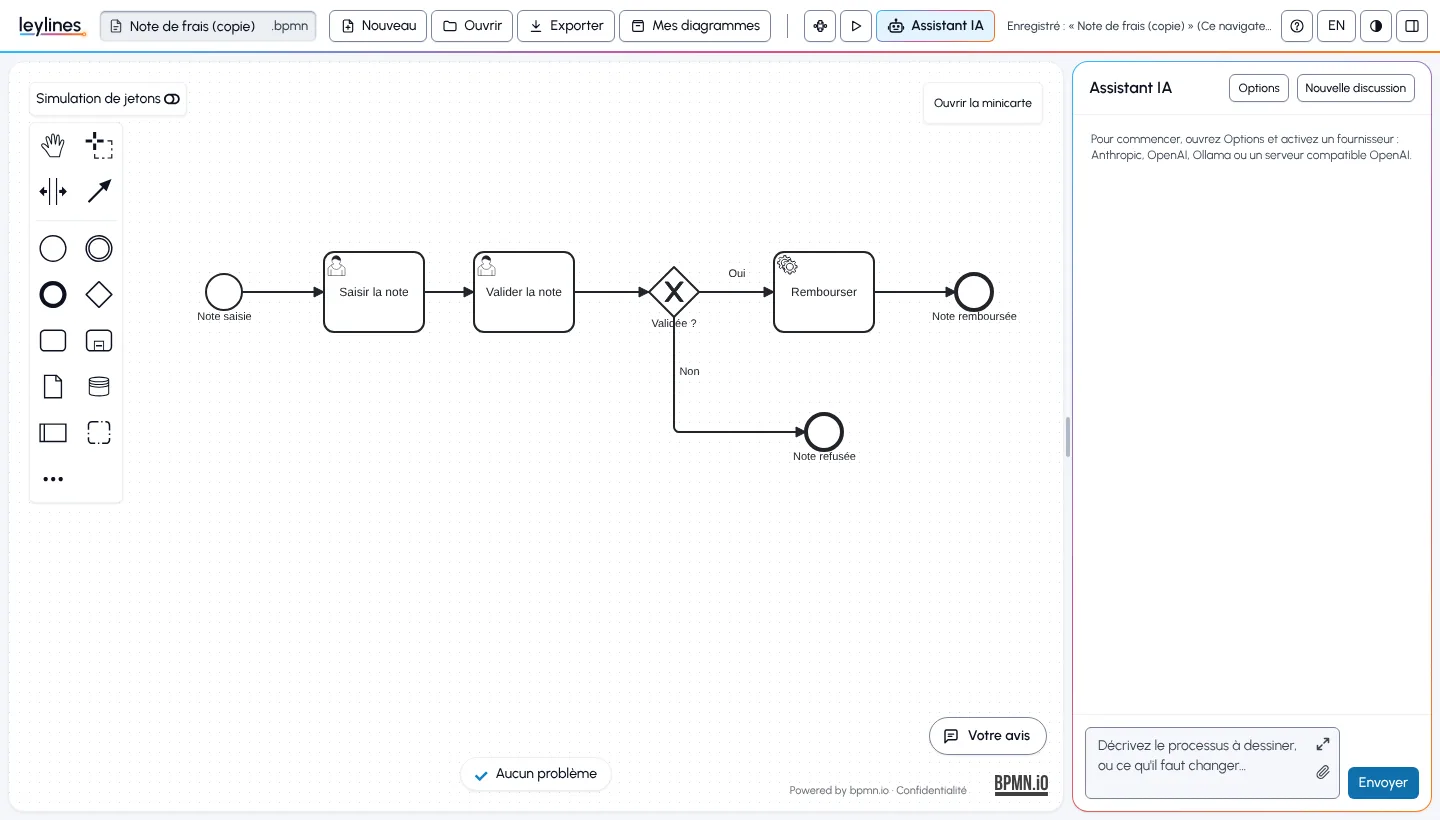
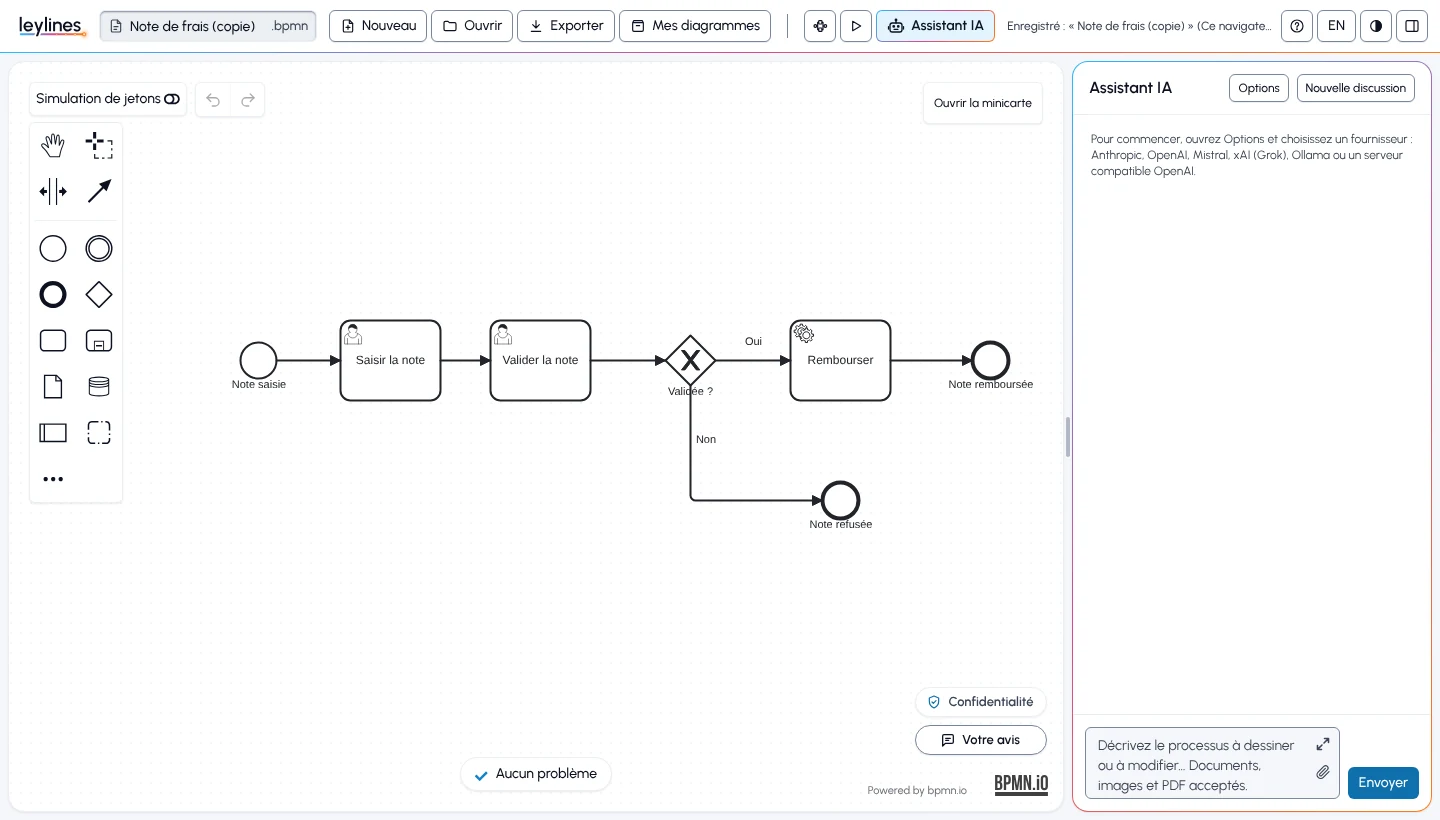
Refresh the help screenshots of the editor, options, simulation and My diagrams
Show the floating undo and redo buttons, the current provider list, the
attachment hint, the Privacy button and the outlined dialog buttons. The
options screenshot now shows Mistral, as its caption says, and its alt text
follows. Fix the declared height of the English My diagrams image.

diff --git a/help.html b/help.html
@@ -267,7 +267,7 @@
         <p>The editor keeps your work in the browser one second after each change, and shows the time of the last save next to "Autosave". This autosave has a single slot: clicking <span class="ui">New</span> or opening a file replaces its content.</p>
         <h3><span class="ico" data-icon="library" aria-hidden="true"></span>My diagrams</h3>
         <p>To keep several processes, open <span class="ico" data-icon="library" aria-hidden="true"></span><span class="ui">My diagrams</span>. Give your work a name and click <span class="ui">Save</span>. The list then lets you reopen, rename or delete each entry. <kbd>Ctrl</kbd>+<kbd>S</kbd> updates the one that is open, and <span class="ui">Save as new</span> makes a copy.</p>
-        <figure><img src="/src/help/img/en-mes-diagrammes.webp" width="760" height="470" alt="My diagrams window with two diagrams saved in the browser." loading="lazy" /><figcaption>The My diagrams window.</figcaption></figure>
+        <figure><img src="/src/help/img/en-mes-diagrammes.webp" width="760" height="452" alt="My diagrams window with two diagrams saved in the browser." loading="lazy" /><figcaption>The My diagrams window.</figcaption></figure>
         <!-- online -->
         <div class="note warn">This list is stored in this browser, on this device. It is not synced, and it is lost if you clear the site's data or browse in private mode. To keep a process for good, or share it, export it as a .bpmn file.</div>
         <!-- /online -->
@@ -363,7 +363,7 @@
           </table>
         </div>
         <p>Select the provider at the top of the window, paste the key, click <span class="ui">Test</span>, then choose the model: the list fills in once the connection is tested. One provider is used at a time, and switching does not erase the keys of the others. The panel shows which model is in use.</p>
-        <figure><img src="/src/help/img/en-options.webp" width="640" height="530" alt="Assistant options window with the Anthropic provider chosen: address, API key, models, Test and List models buttons." loading="lazy" /><figcaption>Assistant options: Mistral chosen, waiting for the key.</figcaption></figure>
+        <figure><img src="/src/help/img/en-options.webp" width="640" height="530" alt="Assistant options window with the Mistral provider chosen: address, empty API key, models, Test and List models buttons." loading="lazy" /><figcaption>Assistant options: Mistral chosen, waiting for the key.</figcaption></figure>
 
         <h3>2. Describe the process</h3>
         <p>Write it the way you would explain it to a colleague: who does what, in which order, with which decisions. The assistant answers in the language of your message. For example:</p>

diff --git a/aide.html b/aide.html
@@ -363,7 +363,7 @@
           </table>
         </div>
         <p>Sélectionnez le fournisseur en haut de la fenêtre, collez la clé, cliquez sur <span class="ui">Tester</span>, puis choisissez le modèle : la liste se remplit une fois la connexion testée. Un seul fournisseur sert à la fois, et en changer n'efface pas la clé des autres. Le panneau affiche le modèle utilisé.</p>
-        <figure><img src="/src/help/img/fr-options.webp" width="640" height="530" alt="Fenêtre Options de l'assistant, avec le fournisseur Anthropic choisi : adresse, clé API, modèles, boutons Tester et Lister les modèles." loading="lazy" /><figcaption>Options de l'assistant : Mistral choisi, en attente de la clé.</figcaption></figure>
+        <figure><img src="/src/help/img/fr-options.webp" width="640" height="530" alt="Fenêtre Options de l'assistant, avec le fournisseur Mistral choisi : adresse, clé API vide, modèles, boutons Tester et Lister les modèles." loading="lazy" /><figcaption>Options de l'assistant : Mistral choisi, en attente de la clé.</figcaption></figure>
 
         <h3>2. Décrire le processus</h3>
         <p>Écrivez comme vous l'expliqueriez à un collègue : qui fait quoi, dans quel ordre, avec quelles décisions. L'assistant répond dans la langue de votre message. Par exemple :</p>
